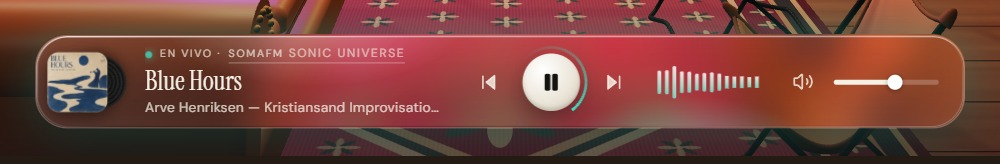
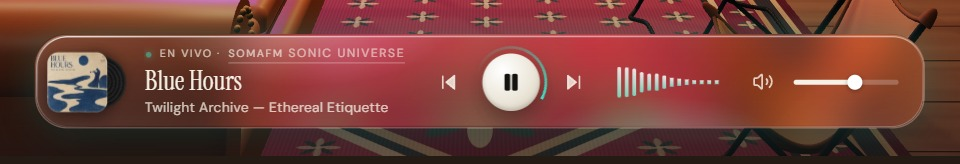
Quitar el cuadro de arcoíris de la pared del fondo
Capturas del README actualizadas.

diff --git a/app/gallery.ts b/app/gallery.ts
@@ -1,6 +1,6 @@
 import * as THREE from "three";
 
-// Framed prints: a pair above the DJ table on the brick pier (face x −5.8) and two larger pieces high on the
+// Framed prints: a pair above the DJ table on the brick pier (face x −5.8) and a larger piece high on the
 // double-height rear wall (face z −4.6). Artwork is drawn on canvas in the loft's palette, except the "Las Malvinas son
 // argentinas" (todo bien posta) and computer prints loaded from public/art.
 export function addGallery(scene: THREE.Scene, materials: THREE.Material[], textures: THREE.Texture[]) {
@@ -36,15 +36,6 @@ export function addGallery(scene: THREE.Scene, materials: THREE.Material[], text
   }
   const paper:Draw=(c,w,h)=>{c.fillStyle=C.paper;c.fillRect(0,0,w,h);};
 
-  // Woven arches, like a hand-loomed textile.
-  const arches:Draw=(c,w,h)=>{
-    c.fillStyle=C.terracotta;c.fillRect(0,0,w,h);
-    const colors=[C.cream,C.ochre,C.rose,C.teal],unit=w/4;
-    for(let row=0;row<3;row++)for(let k=0;k<4;k++){
-      const cx=unit*(k+.5)+(row%2?unit*.5:0),cy=h*(.36+row*.3);
-      for(let ring=0;ring<4;ring++){c.strokeStyle=colors[(ring+k+row)%4];c.lineWidth=unit*.07;c.beginPath();c.arc(cx,cy,unit*(.42-ring*.1),Math.PI,Math.PI*2);c.stroke();}
-    }
-  };
   // Layered mountains under an ochre sun.
   const ranges:Draw=(c,w,h)=>{
     c.fillStyle=C.sand;c.fillRect(0,0,w,h);
@@ -62,7 +53,6 @@ export function addGallery(scene: THREE.Scene, materials: THREE.Material[], text
   const pier=-5.775,side=Math.PI/2;
   print(piece(pier,2.75,9.045,side,1.2,1.46,frames.black,.08,paper),"/art/malvinas.jpg");
   print(piece(pier,2.75,10.555,side,1.2,1.46,frames.black,.08,paper),"/art/compu.jpg");
-  // Larger pieces high on the double-height rear wall, above the existing gallery.
-  piece(-.55,5.45,-4.577,0,1.6,1.25,frames.oak,0,arches);
+  // A larger piece high on the double-height rear wall, above the existing gallery.
   piece(2.75,5.3,-4.577,0,1.15,1.45,frames.black,.09,ranges);
 }

diff --git a/CLAUDE.md b/CLAUDE.md
@@ -78,7 +78,7 @@ app/architecture.ts  Detalles arquitectónicos extra (acero, óxido, lino, textu
 app/gallery.ts    Cuadros enmarcados, dibujados en canvas salvo los afiches "Las Malvinas son argentinas" (todo bien posta)
                   y la compu (`public/art/compu.jpg`,
                   `public/art/malvinas.jpg`, vía `print()` con encuadre cover). Par de cuadros iguales (4:5, 1.2 × 1.46) sobre la
-                  consola DJ (pared del pilar, x −5.8) y 2 piezas grandes arriba en la pared del fondo (z −4.6)
+                  consola DJ (pared del pilar, x −5.8) y una pieza grande arriba en la pared del fondo (z −4.6)
 app/workspace.ts  Rincón habitado junto al pilar de ladrillo: mesa de nogal con consola DJ y un atril.
                   Props a escala real × S=1.4 (el loft está construido ~1.4×)
 app/city.ts       Brooklyn desde un 4.º piso, a escala real en metros (M=.56 unidades/m, calle en y=−14·M):
